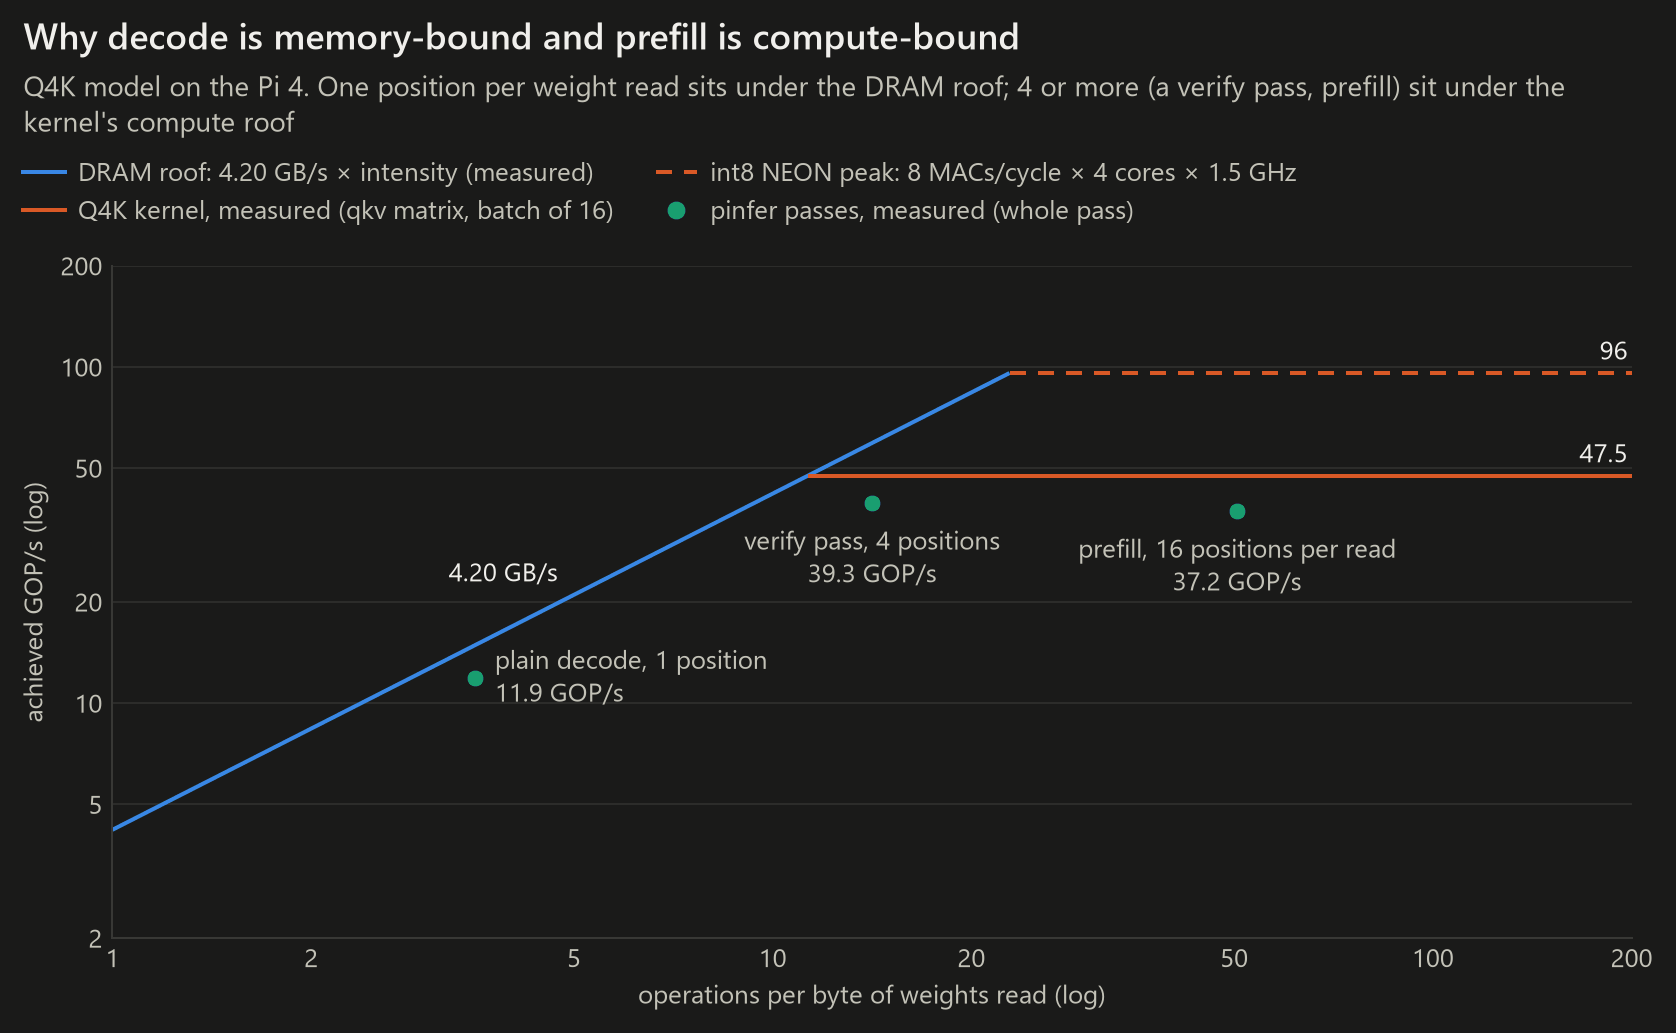
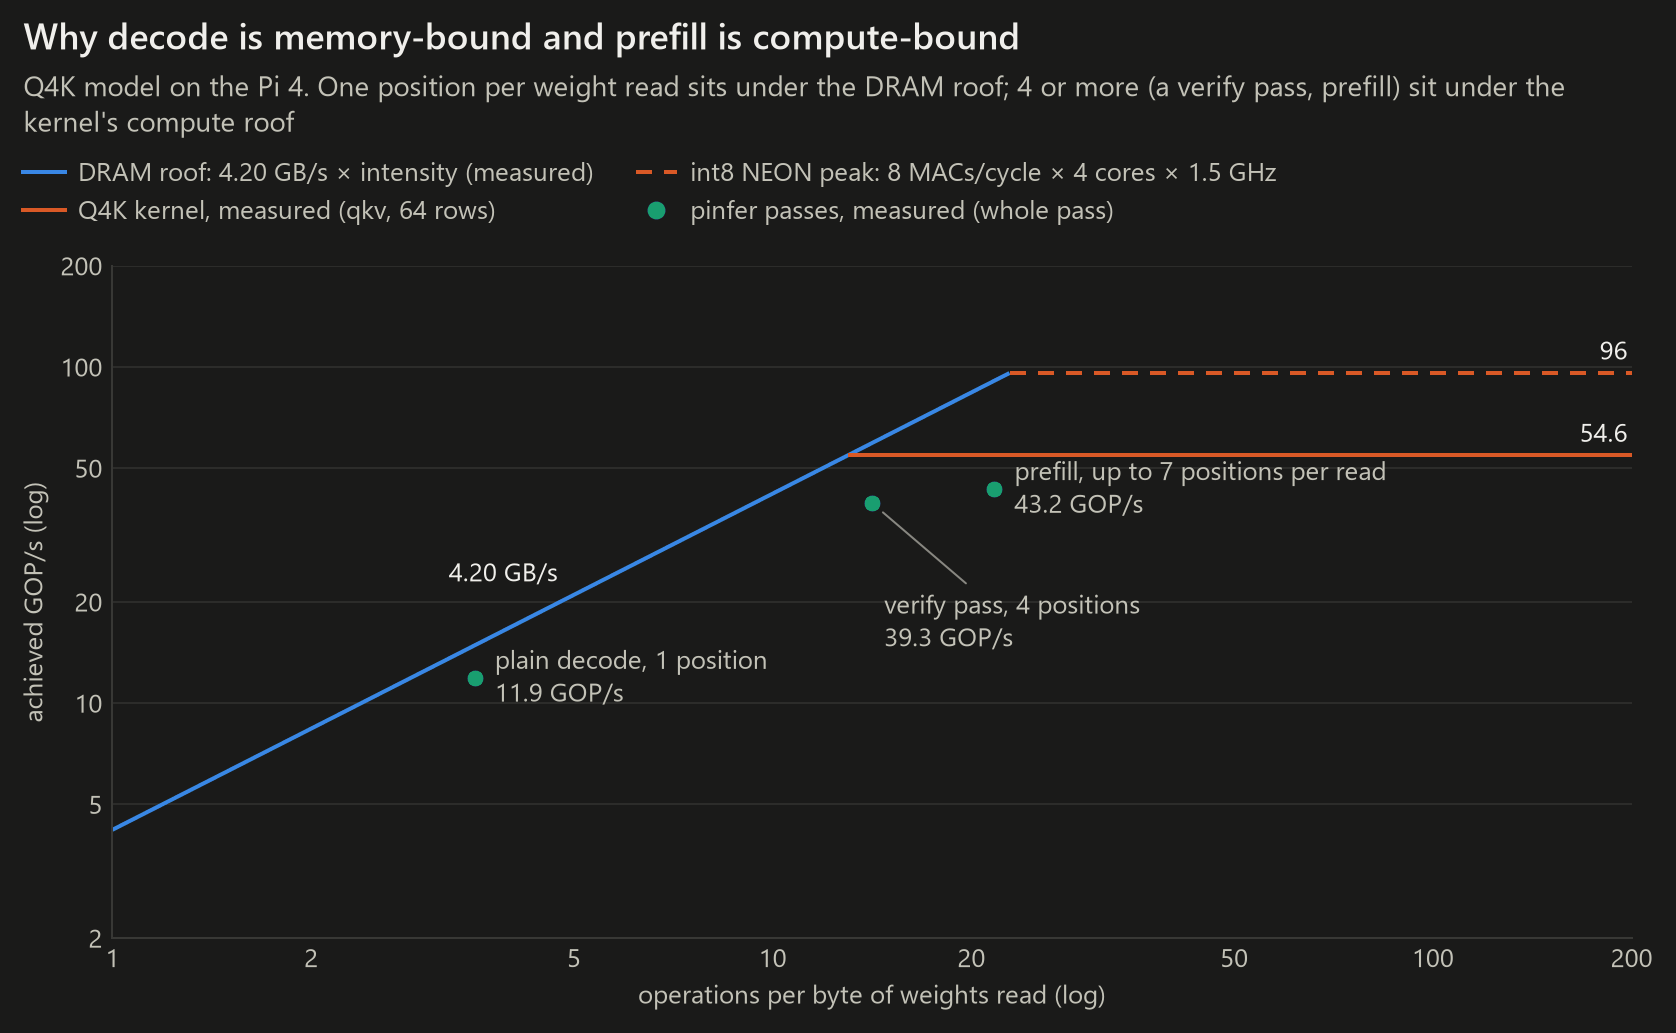
docs: README and results docs brought to the final 0.2.0 numbers
- Chat table: medians after the cheaper verify pass incl. the default (adaptive + n-gram), 11.0-14.8
  tok/s, 1.4-1.9x plain; within 2% of the best fixed k on every chat prompt.
- Kernels text: register passes of up to 7 vectors, prefill groups of 7 (L1); verify cost 1.2x at 4
  positions, 1.4x at 5; drafts up to 4 per round by default.
- Roofline: prefill 43.1 tok/s in groups of up to 7 (21.7 ops/byte, 43.2 GOP/s), Q4K kernel roof 54.6
  GOP/s (mm2-kbench-final); label placement fixed; README / ARCHITECTURE / RESULTS text and tables match.
- RESULTS and notes scoreboard: 20.22 tok/s default speculative, prefill 43.1.

diff --git a/tools/make_figures3.py b/tools/make_figures3.py
@@ -77,8 +77,10 @@ STATE_CHUNK = 128 * 32 * 4  # the recurrence's L1-resident chunk, 16 KB (engine/
 # ---------------------------------------------------------------- measured passes (Q4K, 4 threads)
 PLAIN_TPS = 7.89  # plain decode, speed-ab-merge4_20261022_103609 (merged build, median of 3)
 VERIFY_MS = 152.9  # k=3 verify pass over 4 positions, engine/VERIFY.md "Result" (ver3-ab-p64_20261022_080513)
-PREFILL_TPS = 37.1  # 64-token prompt, speed-ab-merge4_20261022_103609
-PREFILL_N, GROUP = 64, 16  # one 64-row chunk; pf_matmul streams the weights once per 16 rows (KERNELS.md v13)
+PREFILL_TPS = 43.1  # 64-token prompt, mm2-e2e-prefill_20261022_140719 (batched-kernels round, median of 3)
+# one 64-row chunk; since the batched-kernels round pf_matmul splits it into equal groups of at most 7 rows
+# (KERNELS.md Part 3), so the layer weights stream ceil(64 / 7) = 10 times
+PREFILL_N, GROUP = 64, 7
 
 # ---------------------------------------------------------------- compute roofs
 # Theoretical int8 peak of the instructions pinfer's kernels use. Cortex-A72 Software Optimization Guide
@@ -90,11 +92,11 @@ PREFILL_N, GROUP = 64, 16  # one 64-row chunk; pf_matmul streams the weights onc
 # (KERNELS.md "Machine facts"), so the kernels cannot reach it.
 MACS_PER_CYCLE = 8
 PEAK_INT8 = MACS_PER_CYCLE * 2 * CORES * CLOCK_HZ / 1e9
-# Practical roof: the Q4K kernel itself, cold weights, 4 threads, at a batch of 16 (a prefill group),
-# on the largest layer matrix: qkv 6144 x 1024 in 4238.94 us (bench/results/kbench-v13-group_20261022_
-# 005221.json, variant v13-group16). Not a maximum: the same file gives 39.4-49.6 GOP/s over the four
-# layer shapes (qkv, gate, down, out) at batches of 4, 16 and 64 (qkv 49.3 at 4, 47.2 at 64).
-KERNEL_PEAK = 2 * 6144 * 1024 * 16 / 4238.94e-6 / 1e9
+# Practical roof: the Q4K kernel itself, cold weights, 4 threads, after the batched-kernels round, on the
+# largest layer matrix at a 64-row batch (groups of 7): qkv 6144 x 1024 in 14744.1 us, median
+# (bench/results/mm2-kbench-final_20261022_141346.json, variant kbench_mm2). Not a maximum: the same file
+# gives 49.1-56.0 GOP/s over the layer shapes at n = 64 and up to 57.7 at n = 7.
+KERNEL_PEAK = 2 * 6144 * 1024 * 64 / 14744.1e-6 / 1e9
 
 # ---------------------------------------------------------------- the instruction set
 # Multiply-accumulates per 128-bit NEON instruction, from the Arm A64 ISA (DDI 0602, 2024-12):
@@ -164,14 +166,14 @@ def roof_points() -> list[tuple[str, str, float, float]]:
     """
     plain_ops = 2 * WEIGHTS_PLAIN
     layer_w, layer_b = WEIGHTS_PLAIN - WEIGHTS_HEAD, BYTES_PLAIN - BYTES_HEAD
-    # Prefill: the layers stream once per group of 16 rows; only the last row needs logits (one head pass).
+    # Prefill: the layers stream once per group of rows; only the last row needs logits (one head pass).
     prefill_ops = 2 * (PREFILL_N * layer_w + WEIGHTS_HEAD)
-    prefill_bytes = PREFILL_N // GROUP * layer_b + BYTES_HEAD
+    prefill_bytes = -(-PREFILL_N // GROUP) * layer_b + BYTES_HEAD
     return [("plain decode, 1 position", "plain decode, n = 1", plain_ops / BYTES_PLAIN,
              plain_ops * PLAIN_TPS / 1e9),
             ("verify pass, 4 positions", "verify, n = 4", 4 * plain_ops / BYTES_PLAIN,
              4 * plain_ops / (VERIFY_MS / 1e3) / 1e9),
-            ("prefill, 16 positions per read", "prefill, n = 16", prefill_ops / prefill_bytes,
+            ("prefill, up to 7 positions per read", "prefill, n ≤ 7", prefill_ops / prefill_bytes,
              prefill_ops / (PREFILL_N / PREFILL_TPS) / 1e9)]
 
 
@@ -185,7 +187,7 @@ def _hw_text() -> tuple[list[tuple[str, str | None, str, list[str]]], list[str |
          "each with a 128-bit NEON (SIMD) unit and L1 caches",
          "Kept in L1, next to the arithmetic",
          [f"a {STATE_CHUNK // 1024} KB chunk of the recurrent state, reused by every position of a pass",
-          "int8 activations, 1 byte per input: 16 KB for a prefill group of 16 positions × 1024 inputs"]),
+          "int8 activations, 1 byte per input: 7 KB for a prefill group of 7 positions × 1024 inputs (25 KB at 3584)"]),
         (f"L2 cache: {L2_BYTES >> 20} MB, shared", None,
          "Too small for anything model-sized",
          [(f"one token reads {mb:.1f} MB of weights, {BYTES_PLAIN / L2_BYTES:.0f}× the L2: each byte "
@@ -342,19 +344,19 @@ def fig_roofline(t: Theme, L: Layout) -> None:
                     va="bottom", color=t.ink)
     pts = roof_points()
     ax.plot([p[2] for p in pts], [p[3] for p in pts], "o", color=t.aqua, markersize=MARKER, zorder=4, **ring(t))
-    # Labels in the free space under the roofs: n = 1 to its right; desktop: the other two under their
-    # points; phone (narrower decades): verify under its point, prefill further down so the two clear.
+    # Labels in the free space under the roofs: n = 1 to its right; prefill to its right; verify, whose
+    # point sits close to prefill's and just under the DRAM roof, well below its point with a leader.
     if L.mobile:
-        offsets = [((8, -4), "left", "top"), ((10, -12), "center", "top"), ((4, -58), "center", "top")]
+        offsets = [((8, -4), "left", "top"), ((6, -56), "left", "top"), ((8, -6), "left", "top")]
     else:
-        offsets = [((10, 0), "left", "center"), ((0, -12), "center", "top"), ((0, -12), "center", "top")]
+        offsets = [((10, 0), "left", "center"), ((6, -44), "left", "top"), ((10, 0), "left", "center")]
     for (name, short, x, y), (off, ha, va) in zip(pts, offsets):
         leader = {"arrowstyle": "-", "color": t.muted, "linewidth": 1.0, "shrinkA": 3, "shrinkB": 7}
         ax.annotate(f"{short if L.mobile else name}\n{y:.1f} GOP/s", (x, y), xytext=off, textcoords="offset points",
                     ha=ha, va=va, color=t.ink2, linespacing=1.3, zorder=5,
                     arrowprops=leader if abs(off[1]) > 20 else None)  # a label set far off gets a leader
     keys = [Line2D([], [], color=t.blue, linewidth=LINE, label=f"DRAM roof: {bw:.2f} GB/s × intensity (measured)"),
-            Line2D([], [], color=t.orange, linewidth=LINE, label="Q4K kernel, measured (qkv matrix, batch of 16)"),
+            Line2D([], [], color=t.orange, linewidth=LINE, label="Q4K kernel, measured (qkv, 64 rows)"),
             Line2D([], [], color=t.orange, linewidth=LINE, linestyle=DASH,
                    label="int8 NEON peak: 8 MACs/cycle × 4 cores × 1.5 GHz"),
             Line2D([], [], color=t.aqua, marker="o", linestyle="none", markersize=MARKER - 2,

diff --git a/README.md b/README.md
@@ -115,17 +115,17 @@ every time: decode speed ≈ bandwidth ÷ bytes of weights per token, at most 9.
   <source media="(max-width: 600px) and (prefers-color-scheme: dark)" srcset="docs/figures/roofline-mobile-dark.png">
   <source media="(max-width: 600px)" srcset="docs/figures/roofline-mobile.png">
   <source media="(prefers-color-scheme: dark)" srcset="docs/figures/roofline-dark.png">
-  <img alt="Roofline on log-log axes: a plain decode step does 3.5 operations per byte of weights and reaches 11.9 GOP/s, under the 4.20 GB/s DRAM roof; a verify pass over 4 positions does 14.2 operations per byte and reaches 39.3 GOP/s, near the Q4K kernel's measured 47.5 GOP/s compute roof; prefill in groups of 16 reaches 37.2 GOP/s at 50.5 operations per byte. The A72's int8 instruction peak is 96 GOP/s." src="docs/figures/roofline.png">
+  <img alt="Roofline on log-log axes: a plain decode step does 3.5 operations per byte of weights and reaches 11.9 GOP/s, under the 4.20 GB/s DRAM roof; a verify pass over 4 positions does 14.2 operations per byte and reaches 39.3 GOP/s, and prefill in groups of up to 7 positions reaches 43.2 GOP/s at 21.7 operations per byte, both under the Q4K kernel's measured 54.6 GOP/s compute roof. The A72's int8 instruction peak is 96 GOP/s." src="docs/figures/roofline.png">
 </picture>
 
 Arithmetic intensity is the number of operations done per byte read from DRAM; in this roofline plot a
 pass can go no higher than DRAM bandwidth × intensity (the DRAM roof) or the cores' arithmetic speed (the
 compute roof). A decode step does two operations (multiply, add) per weight and a 4.5-bit weight is 0.56
 bytes, so it manages only about 3.5 operations per byte: 11.9 billion per second (GOP/s), 80% of its DRAM
-roof (4.20 GB/s × 3.54 = 14.9). The cores could do 4× that (the 4-bit kernel computes 47.5 GOP/s when
-each weight serves 16 token positions), so scoring 4 positions per weight read costs only 1.20× scoring
-one, which is why speculative decoding pays; prefill reuses each weight for 16 positions and is limited by
-compute instead (37.2 GOP/s).
+roof (4.20 GB/s × 3.54 = 14.9). The cores could do 4–5× that (the 4-bit kernel computes 54.6 GOP/s when
+each weight serves many token positions), so scoring 4 positions per weight read costs only about 1.2×
+scoring one, which is why speculative decoding pays; prefill reuses each weight for up to 7 positions and
+is limited by compute instead (43.2 GOP/s).
 
 <picture>
   <source media="(max-width: 600px) and (prefers-color-scheme: dark)" srcset="docs/figures/arm_isa-mobile-dark.png">
@@ -206,8 +206,8 @@ here (instruction figure in §1).
 ### 2.2 Kernels that run at the memory wall
 Per-dtype thread policy (Q8 on one thread already saturates DRAM; Q4K needs three to keep up with
 the dequantization), a pinned thread pool with ~0.3 µs dispatch, and a batched path that reads the
-weights once per group of up to 16 vectors (larger batches run as groups of 16 so their int8 activations
-stay in L1). Things measured and rejected: software prefetch (22% *slower* on
+weights once for up to 7 vectors in one register pass (larger batches run as equal groups of at most 7,
+so their int8 activations stay in L1 even for the 3584-wide MLP input). Things measured and rejected: software prefetch (22% *slower* on
 one thread — the hardware prefetcher already keeps up), 8-wide passes (register spills), two
 accumulators per row (no gain). Lab notebook: `engine/bench/KERNELS.md`.
 
@@ -219,8 +219,9 @@ accumulators per row (no gain). Lab notebook: `engine/bench/KERNELS.md`.
   <img alt="In one speculative round the MTP head drafts 3 tokens, the full model checks all 4 positions in a single weight pass, and the matching prefix plus one of its own tokens is kept: 3.3 tokens per round on average, identical to plain greedy output." src="docs/figures/speculative_schematic.png">
 </picture>
 
-Because the Pi is bandwidth-bound, scoring four positions in one pass costs 1.20× scoring one
-(153 ms vs 128 ms). Qwen3.5's MTP head drafts 3 tokens for 25–27 ms; the full model verifies all of them
+Because the Pi is bandwidth-bound, scoring four positions in one pass costs about 1.2× scoring one
+(152–156 ms vs 128 ms) and five positions 1.4× (176 ms). Qwen3.5's MTP head drafts a token in about
+8 ms, and by default the engine drafts up to 4 per round, as many as its confidence warrants; the full model verifies all of them
 in one batched pass and keeps the longest correct prefix plus one token of its own. Every kept token is
 the full model's own greedy choice, so the output is token-for-token identical to plain decoding.
 
@@ -284,20 +285,21 @@ step is 119 ms of weight streaming plus 10 ms of everything else — about 12% f
 
 **Speculation depends on the text.** The 20.2 tok/s above is a prose continuation, where the MTP head
 is right 3.3 times per pass. On chat answers it is right less often (1.8–2.6 tokens per pass), so the gain
-is 1.25–1.7× and **k=2 beats k=3 on every chat prompt**. The library default is now adaptive k ≤ 4 with
-prompt-lookup drafts, within 2% of the best fixed k on every prompt below (`engine/DRAFT.md`):
+is 1.4–1.9× (11.0–14.8 tok/s), and **k=2 beats k=3 on every chat prompt**. The default (adaptive k with
+prompt-lookup drafts) stays within 2% of the best fixed k on each:
 
-| chat answer | plain | speculative k=2 | k=3 |
-|---|---|---|---|
-| explain (chat27) | 8.0 | **9.9** | 9.2 |
-| Python code | 7.9 | **11.7** | 11.2 |
-| C code | 7.9 | **12.2** | 12.0 |
-| list of 10 items | 7.7 | **11.2** | 10.4 |
-| step-by-step math | 7.9 | **13.5** | 13.2 |
-| short story | 7.7 | **10.0** | 9.2 |
+| chat answer | plain | speculative k=2 | k=3 | default (adaptive + n-gram) |
+|---|---|---|---|---|
+| explain (chat27) | 7.9 | 11.0 | 10.2 | **11.0** |
+| Python code | 7.9 | 13.1 | 12.5 | **13.0** |
+| C code | 7.9 | 13.7 | 13.5 | **14.3** |
+| list of 10 items | 7.9 | 12.6 | 11.6 | **12.4** |
+| step-by-step math | 7.9 | 15.0 | 14.8 | **14.8** |
+| short story | 7.9 | 11.2 | 10.3 | **11.1** |
 
-*Tokens/s, 96 generated tokens, measured before the cheaper verify pass (`notes.md` "Speculative decoding
-on chat prompts"); a full-vocabulary draft gains only 0–9% acceptance and is 30% slower overall.*
+*Tokens/s, 96 generated tokens, medians of 2 runs after the cheaper verify pass (`ng1-chat-r{1,2}_*.json`,
+`engine/DRAFT.md`; the adaptive cap was 3 there, cap 4 is within ±1% on chat in `kcap-merge6_*.json`);
+a full-vocabulary draft gains only 0–9% acceptance and is 30% slower overall.*
 
 **Standard runtimes on the same board** (`bench/BASELINES.md`): MNN 3.6.1 is the strongest, 6.67 tok/s
 decode and 30.9 prefill; llama.cpp v0.7.0 reaches 5.4–5.6 decode; ONNX Runtime GenAI 0.18 int4 3.1;

diff --git a/docs/ARCHITECTURE.md b/docs/ARCHITECTURE.md
@@ -245,7 +245,7 @@ per cycle with `SMULL`/`SMLAL` but 4 fp32 MACs with `FMLA` (`engine/bench/KERNEL
 | Dispatch cost | Empty job: 11 / 238 / 369 / 478 ns for 1 / 2 / 3 / 4 threads | `engine/bench/KERNELS.md` v9 |
 | Matmul split | One contiguous slab of 4-row tiles per thread: one sequential DRAM stream each | `run_job()` |
 | Threads per matmul | n = 1: at most F32 2, BF16 2, Q8 1, Q4 3, Q4K 3; batched calls use all threads; at least 32 KB of weights per thread | `threads_for()`, KERNELS.md v9-auto / v10 |
-| Prefill batches | n > 16 runs in groups of 16 vectors; each group re-streams the weights so its int8 activations stay in L1 (−9% on the big prefill matmuls) | `pf_matmul`, KERNELS.md v13 |
+| Prefill batches | Batches run as equal groups of at most 7 vectors, one register pass each (n = 5 for a k = 4 verify is one pass, not 4 + 1); each group re-streams the weights so its int8 activations stay in L1, also for the 3584-wide MLP input (prefill +19%, `engine/bench/KERNELS.md` Part 3) |
 | Other parallel work | `pf_pool_run`: attention (KV group × row half, then KV group × head half), conv channel ranges in multiples of 128, gated-norm heads, MLP activation slices; recurrence over the 16 heads | `forward_*.c`, `kern_lin.c`, `engine/CORE.md` round 2 |
 | Ref build | Stub pool: everything runs on the calling thread | `matvec_ref.c` |
 
@@ -408,16 +408,15 @@ What pinfer moves per generated token (Q4K default, plain decode): all 424.9 MB 
 405× the 1 MiB L2 (tensor directory of the `.pq` file, §5); the 18.9 MB recurrent state, read and
 written; and 24 KiB of fp32 KV cache per token of context (96 MiB at 4096 tokens). What stays in L1: a
 16 KB chunk of the recurrent state while all positions of a pass use it (`engine/VERIFY.md` §2), and the
-int8 activations, one byte per input: 16 KB for a prefill group of 16 positions on a 1024-input matrix
-(`engine/bench/KERNELS.md` v13). For the 3584-input MLP down projection a group of 16 is 56 KB, more than
-the 32 KB L1D, and that matrix measured faster with groups of 8 (11.0 against 11.9 ms at n = 64,
-KERNELS.md v13).
+int8 activations, one byte per input: 7 KB for a prefill group of 7 positions on a 1024-input matrix and
+25 KB on the 3584-input MLP down projection, inside the 32 KB L1D. Groups of 16 (56 KB there) did not fit;
+the switch to groups of 7 made prefill 19% faster (`engine/bench/KERNELS.md` Part 3).
 
 <picture>
   <source media="(max-width: 600px) and (prefers-color-scheme: dark)" srcset="figures/roofline-mobile-dark.png">
   <source media="(max-width: 600px)" srcset="figures/roofline-mobile.png">
   <source media="(prefers-color-scheme: dark)" srcset="figures/roofline-dark.png">
-  <img alt="Roofline on log-log axes: a plain decode step does 3.5 operations per byte of weights and reaches 11.9 GOP/s, under the 4.20 GB/s DRAM roof; a verify pass over 4 positions does 14.2 operations per byte and reaches 39.3 GOP/s, near the Q4K kernel's measured 47.5 GOP/s compute roof; prefill in groups of 16 reaches 37.2 GOP/s at 50.5 operations per byte. The A72's int8 instruction peak is 96 GOP/s." src="figures/roofline.png">
+  <img alt="Roofline on log-log axes: a plain decode step does 3.5 operations per byte of weights and reaches 11.9 GOP/s, under the 4.20 GB/s DRAM roof; a verify pass over 4 positions does 14.2 operations per byte and reaches 39.3 GOP/s, and prefill in groups of up to 7 positions reaches 43.2 GOP/s at 21.7 operations per byte, both under the Q4K kernel's measured 54.6 GOP/s compute roof. The A72's int8 instruction peak is 96 GOP/s." src="figures/roofline.png">
 </picture>
 
 **Roofline.** The x axis is arithmetic intensity: operations per byte of weights read from DRAM. The y
@@ -429,12 +428,12 @@ axis is achieved GOP/s. The roofs:
   issues alongside. One `SMULL`/`SMLAL` multiplies 8 int8 pairs (8 multiply-accumulates, 16 operations):
   8 × 2 × 4 cores × 1.5 GHz = 96 GOP/s. `ubench` confirms 1.00 cycle per `SMULL`/`SMLAL` but finds that
   `SADDLP` does not overlap with them (`engine/bench/KERNELS.md` "Machine facts"), so no kernel gets there.
-- **Q4K kernel, measured: 47.5 GOP/s.** `kbench`, cold weights, 4 threads, the largest layer matrix (qkv,
-  6144 × 1024) at a batch of 16 in 4238.94 µs (`bench/results/kbench-v13-group_20261022_005221.json`,
-  variant `v13-group16`). It is a representative value, not a maximum: the same file gives 39.4–49.6 GOP/s
-  over the four layer shapes (qkv, gate, down, out) at batches of 4, 16 and 64. At 47.5 the kernel roof
-  meets the DRAM roof at 11.3 operations per byte, between 3 and 4 positions per weight read; the
-  instruction peak meets it at 22.8.
+- **Q4K kernel, measured: 54.6 GOP/s.** `kbench`, cold weights, 4 threads, the largest layer matrix (qkv,
+  6144 × 1024) at a 64-row batch (groups of 7) in 14744.1 µs (`bench/results/mm2-kbench-final_20261022_141346.json`,
+  variant `kbench_mm2`). It is a representative value, not a maximum: the same file gives 49.1–56.0 GOP/s
+  over the layer shapes at n = 64 and up to 57.7 at n = 7 (before the batched-kernels round: 47.5 on qkv at
+  a batch of 16, `kbench-v13-group_20261022_005221`). At 54.6 the kernel roof meets the DRAM roof at
+  13.0 operations per byte, between 3 and 4 positions per weight read; the instruction peak meets it at 22.8.
 
 The points: operations = 2 × the multiply-accumulates of the weight matrices (a plain step multiplies
 751,894,528 Q4K weights, 254,279,680 of them in the tied head; counted from the `.pq` directory); bytes =
@@ -446,7 +445,7 @@ roofs drawn).
 |---|---|---|---|---|---|---|---|
 | Plain decode | 1 | 1.504 G | 424.9 MB | 3.54 | 126.7 ms (7.89 tok/s) | 11.9 | `speed-ab-merge4_20261022_103609` |
 | Verify pass, k = 3 | 4 | 6.015 G | 424.9 MB | 14.2 | 152.9 ms | 39.3 | `engine/VERIFY.md` (`ver3-ab-p64_20261022_080513`) |
-| Prefill, 64 tokens | 16 (4 groups; head once) | 64.20 G | 1270.6 MB | 50.5 | 1.725 s (37.1 tok/s) | 37.2 | `speed-ab-merge4_20261022_103609` |
+| Prefill, 64 tokens | ≤ 7 (10 groups; head once) | 64.20 G | 2962.0 MB | 21.7 | 1.485 s (43.1 tok/s) | 43.2 | `mm2-e2e-prefill_20261022_140719` |
 
 So decode leaves three quarters of the kernel's arithmetic unused, and a verify pass over 4 positions
 costs 1.20× a plain step instead of 4× (152.9 against 127.1 ms in the same `engine/VERIFY.md` run). Past

diff --git a/notes.md b/notes.md
@@ -78,7 +78,7 @@ tool cross-checked on 2 chunks: 15.1743 vs llama.cpp 15.1695).
 | Engine | Format | File | Decode tok/s plain | Decode tok/s MTP spec | Prefill tok/s | PPL (c8) |
 |---|---|---|---|---|---|---|
 | pinfer | Q4_G32 + Q4 head | 437 MB | **6.88** | **12.56** (k=3, dv 32768) | 21.3 | **21.61** (as bad as Q4_0) |
-| pinfer | **Q4K_G32 everywhere + Q4K head** | 437 MB | **7.89** | **18.43** (k=3, dv 32768) | 37.1 | **18.50** (18.48 before the NEON expf; difference 0.02 ≪ ±1.25) ← default (merged build `e1a8d2c` with the cheaper verify pass, `bench/results/speed-ab-merge4_20261022_103609.json`, 3 rounds, medians; earlier: 7.88 / 16.49 / 37.4 at `fba8a1a`, 7.26 / 13.35 / 26.1 at `af06041`, 6.83 / 11.57 / 19.3 before the kernel follow-up) |
+| pinfer | **Q4K_G32 everywhere + Q4K head** | 437 MB | **7.89** | **20.22** (0.2.0 default: adaptive k ≤ 4 + ngram 7, `kcap-merge6_20261022_145226`; fixed k=4 18.64, k=3 18.15) | 43.1 (`mm2-e2e-prefill_20261022_140719`) | **18.50** (18.48 before the NEON expf; difference 0.02 ≪ ±1.25) ← default (merged build `e1a8d2c` with the cheaper verify pass, `bench/results/speed-ab-merge4_20261022_103609.json`, 3 rounds, medians; earlier: 7.88 / 16.49 / 37.4 at `fba8a1a`, 7.26 / 13.35 / 26.1 at `af06041`, 6.83 / 11.57 / 19.3 before the kernel follow-up) |
 | pinfer, kernels branch `8c4e189` (batched-matmul round, not merged yet) | Q4K_G32 everywhere + Q4K head | 437 MB | 7.88 | **18.64** (k=4, dv 32768; k=3 18.15, k=2 16.18) | **43.1** (ctx512 43.2) | 18.50 (outputs bit-identical) — `bench/results/mm2-e2e-decode_20261022_140420.json`, `mm2-e2e-prefill_20261022_140719.json`, 3 interleaved rounds vs `pinfer_run_fast` (7.88 / 18.50 k=3 / 36.2), medians; `engine/bench/KERNELS.md` Part 3 |
 | pinfer | Q4_G32 layers + Q4K head | 437 MB | — | — | — | 21.58 (loss is in the layers) |
 | pinfer | Q4K (v_proj, mtp.fc Q8) + Q4K head | 439 MB | **6.88** | 10.98 (k=3, dv 32768) | 16.3 | **18.50** |
